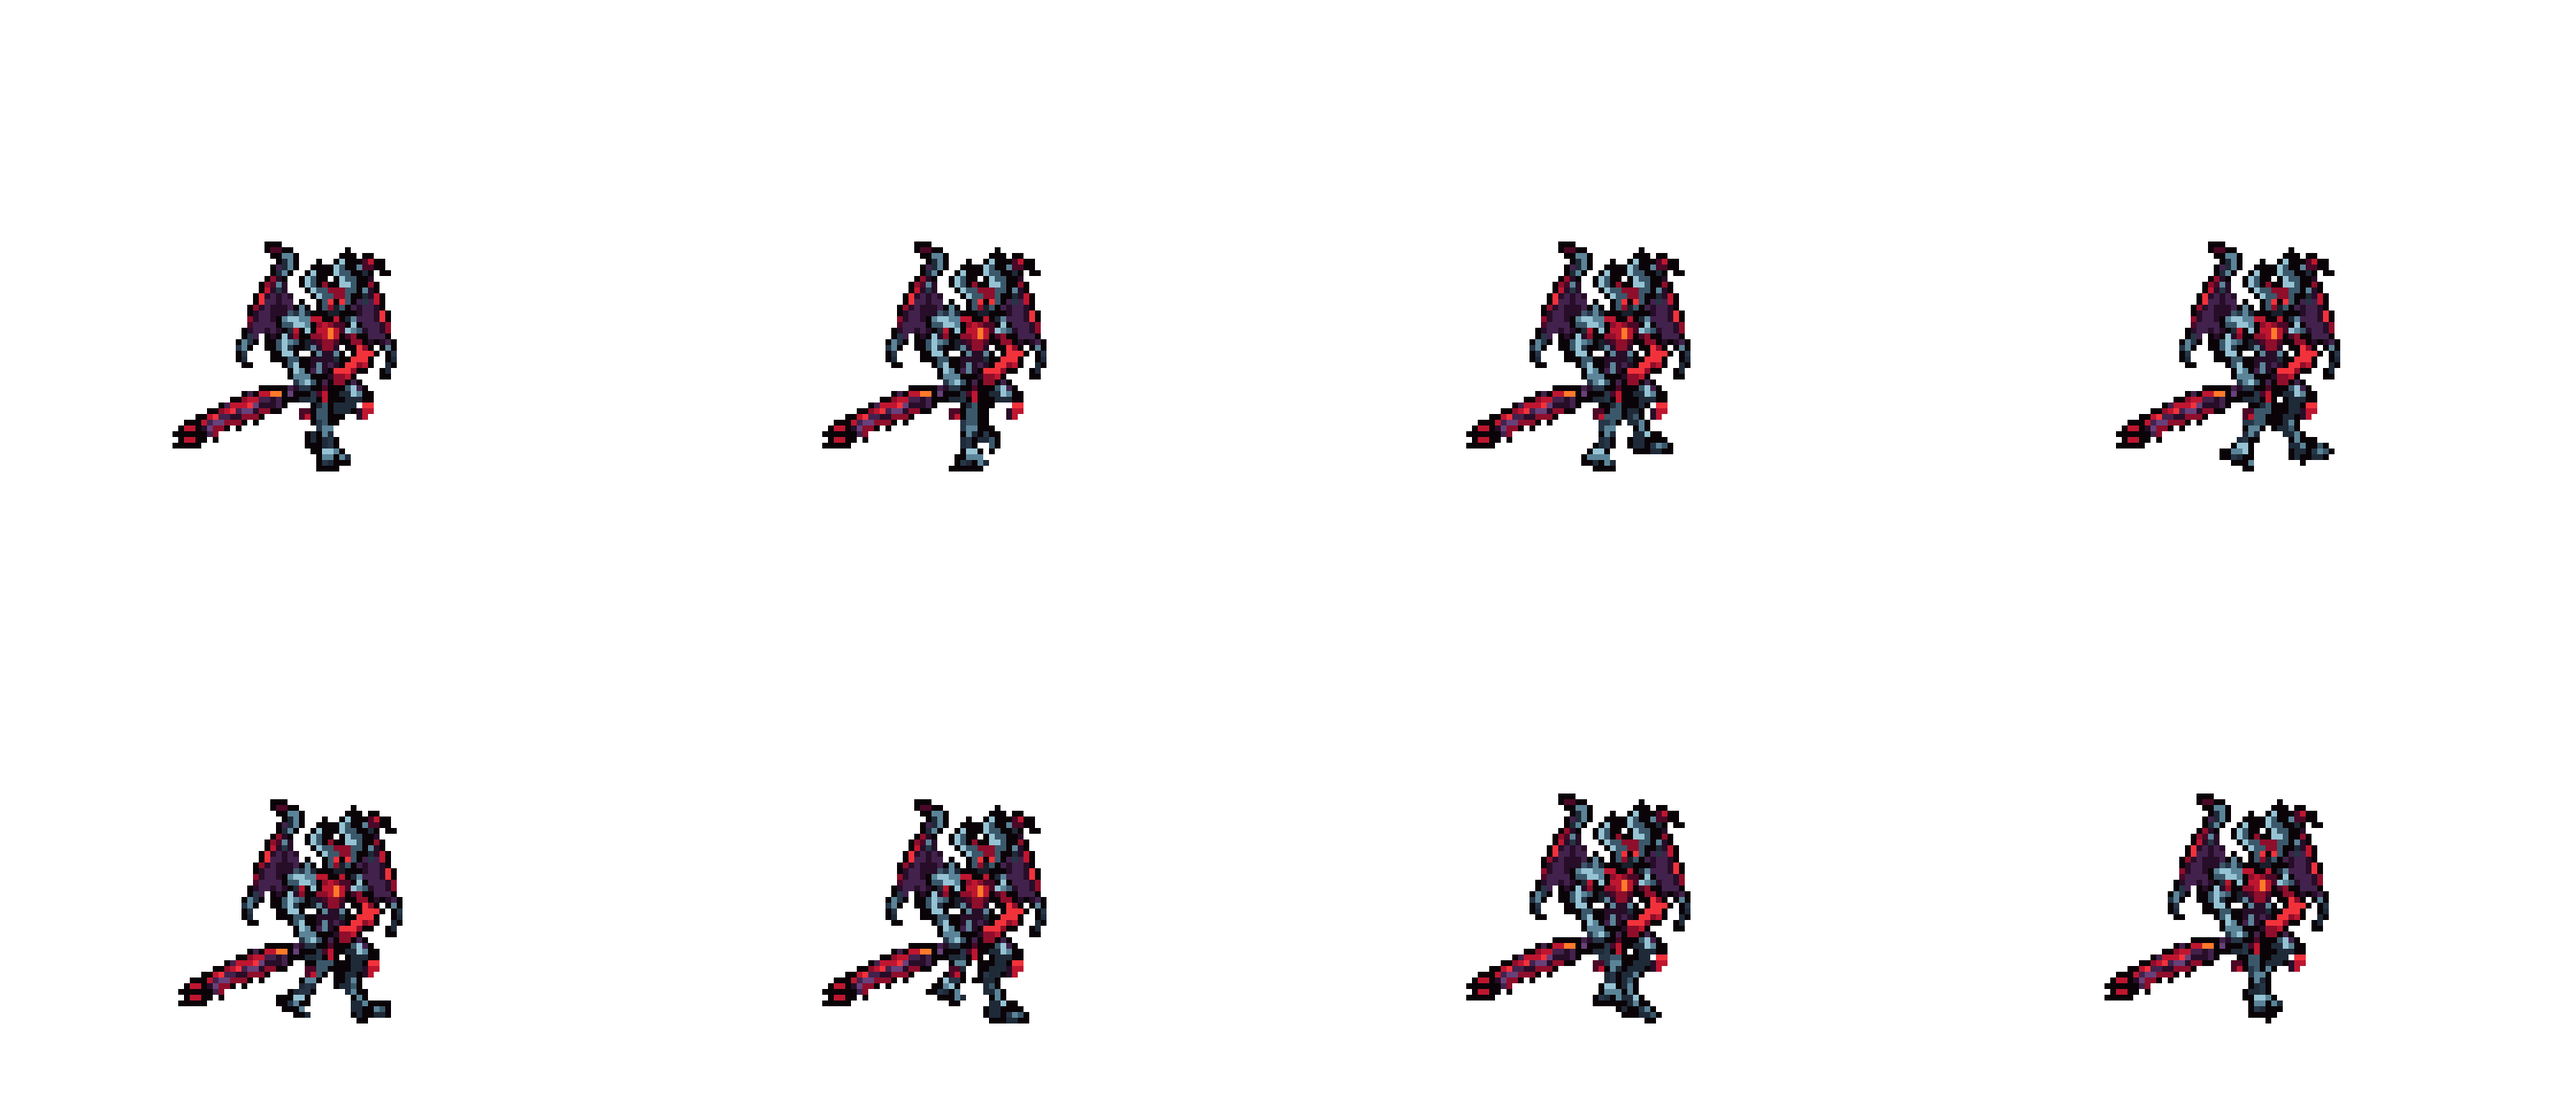
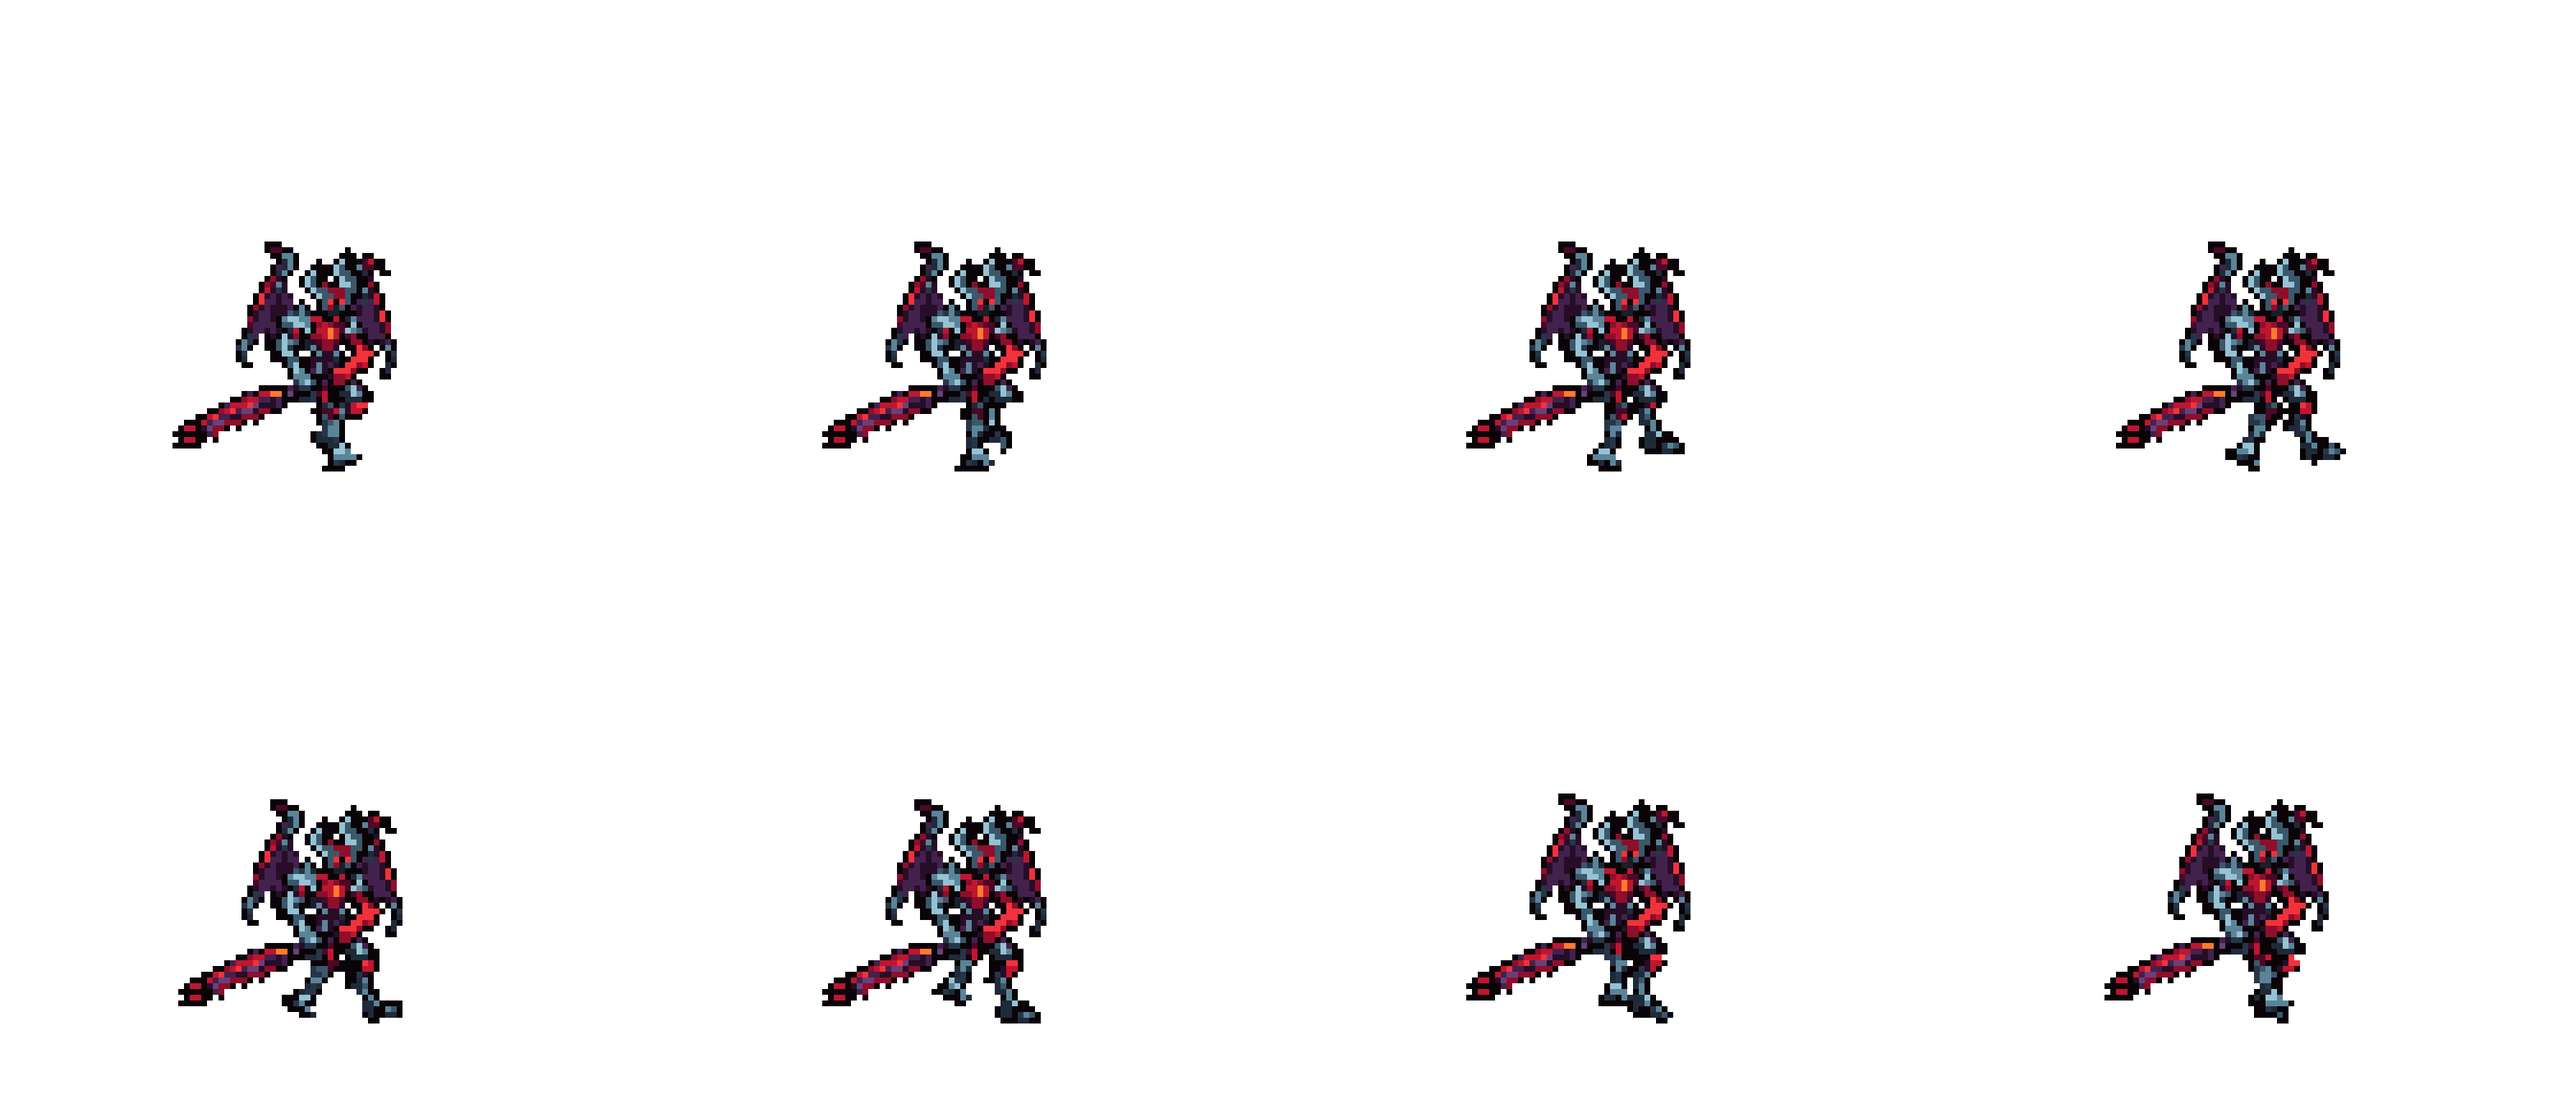
Aatrox: run - the red hip plate rides its leg, outside
「红色的也要贴着自然的动啊」: the plates held still where the idle has them
floated off the moving thighs. The plates ride their legs again; the far leg,
which carries the bright one on its outer side, now comes only 1 square in
under the waist (the near one 4), so the plate stays out where the idle has
it, and frames 1 and 8 swing 4 degrees wider so the feet cross as before.
W without the slow: +1.59 against +1.69 with it (600 s x 24 seeds, lane 0).

diff --git a/tools/art/rig_aatrox.py b/tools/art/rig_aatrox.py
@@ -96,19 +96,17 @@ NEAR_ROOT = (58, 75)
 # leans the other way - a kink at the knee in every frame - its knee row has a black square inside (95, 58), and the
 # lifted legs were bent (thigh and shin turned apart: a one-square joint). Now only the near FOOT (rows NEAR_FOOT down)
 # is mirrored about the ankle, the knee square is the leg's dark steel (NEAR_KNEE_FILL) and every leg turns whole.
-RUN = [[24, 0, -32, 1], [12, 0, -22, 3], [-4, 0, 6, 3], [-14, 0, 18, 1],    # [near deg, near lift, far deg, far lift]
-       [-22, 1, 16, 0], [-12, 3, 6, 0], [8, 3, -8, 0], [24, 1, -24, 0]]
-RUN_HIP_IN = 3
+RUN = [[28, 0, -36, 1], [12, 0, -22, 3], [-4, 0, 6, 3], [-14, 0, 18, 1],    # [near deg, near lift, far deg, far lift]
+       [-22, 1, 16, 0], [-12, 3, 6, 0], [8, 3, -8, 0], [28, 1, -28, 0]]
+# squares each hip comes in under the waist: the far leg carries the bright red hip plate on its outer side, which rode
+# 3 squares into the middle of the body (「待机的腿上的红色部位是在外面的 然后走路时就到里面了」); held still where the idle
+# has it, it floated off the moving thigh (「红色的也要贴着自然的动啊」) - so the far hip comes in 1 (the plate rides its leg,
+# outside), the near one 4, and frames 1 and 8 swing 4 degrees wider: the feet cross as before
+RUN_HIP_IN = {"near": 4, "far": 1}
 LEG_TOP = 88                         # the legs below this row move; the hips and the skirt above stay
 NEAR_FOOT = (97, 57.0)               # the near foot: from this row down, mirrored about this column (under the knee:
 #                                      「往膝盖那移一点都解决了」 - 57.5 left it a square out from the shin)
 NEAR_KNEE_FILL = {(95, 58): "e"}     # the near knee's black square inside the leg
-# the red hip plates over the thighs' tops (rows HIP_PLATE_ROWS, the reds and their dark shade): with the hips brought in
-# they rode into the middle of the body - 「待机的腿上的红色部位是在外面的 然后走路时就到里面了」 - so they stay with the
-# body where the idle has them, and the moved thighs show their own steel there (PLATE_UNDER)
-HIP_PLATE_ROWS = (88, 91)
-HIP_PLATE_KEYS = "56789"
-PLATE_UNDER = {"near": "1", "far": "0"}
 # the idle's legs (canvas squares): their columns and hips
 NEAR_LEG = {"cols": (52, 64), "hip": (59.0, 88.0)}
 FAR_LEG = {"cols": (64, 76), "hip": (69.0, 88.0)}
@@ -450,29 +448,13 @@ def turn(sprite, joint, deg):
     return r, (jx + (joint[0] - round(joint[0])), jy + (joint[1] - round(joint[1])))
 
 
-def hip_plates(des, sm):
-    """The red hip plates' squares on the design (HIP_PLATE_ROWS, HIP_PLATE_KEYS, in the legs' columns, not the blade)."""
-    m = np.zeros(des.shape[:2], bool)
-    r0, r1 = HIP_PLATE_ROWS
-    for k in HIP_PLATE_KEYS:
-        m[r0:r1] |= (des[r0:r1, :, 3] > 0) & (des[r0:r1, :, :3] == D.COL[k]).all(-1)
-    m[:, :NEAR_LEG["cols"][0]] = False
-    m[:, FAR_LEG["cols"][1]:] = False
-    return m & ~sm
-
-
 def leg_piece(des, sm, L, near=False):
-    """One of the idle's legs below LEG_TOP, the blade's squares left out, the hip plates' squares in the thigh's own
-    steel (the plates stay with the body); the near one with its knee square filled and its foot mirrored about the
-    ankle (the toe forward, the leg above it as drawn)."""
+    """One of the idle's legs below LEG_TOP (its red hip plate on it), the blade's squares left out; the near one with its
+    knee square filled and its foot mirrored about the ankle (the toe forward, the leg above it as drawn)."""
     c0, c1 = L["cols"]
     leg = np.zeros_like(des)
     leg[LEG_TOP:, c0:c1] = des[LEG_TOP:, c0:c1]
     leg[sm] = 0
-    plate = hip_plates(des, sm)
-    plate[:, :c0] = False
-    plate[:, c1:] = False
-    leg[plate] = rgba(PLATE_UNDER["near" if near else "far"])
     if near:
         for (r, c), k in NEAR_KNEE_FILL.items():
             leg[r, c] = rgba(k)
@@ -498,12 +480,10 @@ def run(i, des, sm):
     upper = des.copy()
     upper[LEG_TOP:, NEAR_LEG["cols"][0]:FAR_LEG["cols"][1]] = 0
     upper[sm] = des[sm]                                   # the blade hangs below the hips with the fist
-    plate = hip_plates(des, sm)
-    upper[plate] = des[plate]                             # the red hip plates stay where the idle has them
     na, nl, fa, fl = RUN[i]
     legs, drop = [], 0
     for L, deg, lift, near in ((FAR_LEG, fa, fl, False), (NEAR_LEG, na, nl, True)):
-        hip = (L["hip"][0] + (RUN_HIP_IN if near else -RUN_HIP_IN), L["hip"][1])
+        hip = (L["hip"][0] + (RUN_HIP_IN["near"] if near else -RUN_HIP_IN["far"]), L["hip"][1])
         a = run_leg(leg_piece(des, sm, L, near), L, deg, hip)
         low = int(np.nonzero(a[..., 3].any(1))[0].max())
         if not lift:
